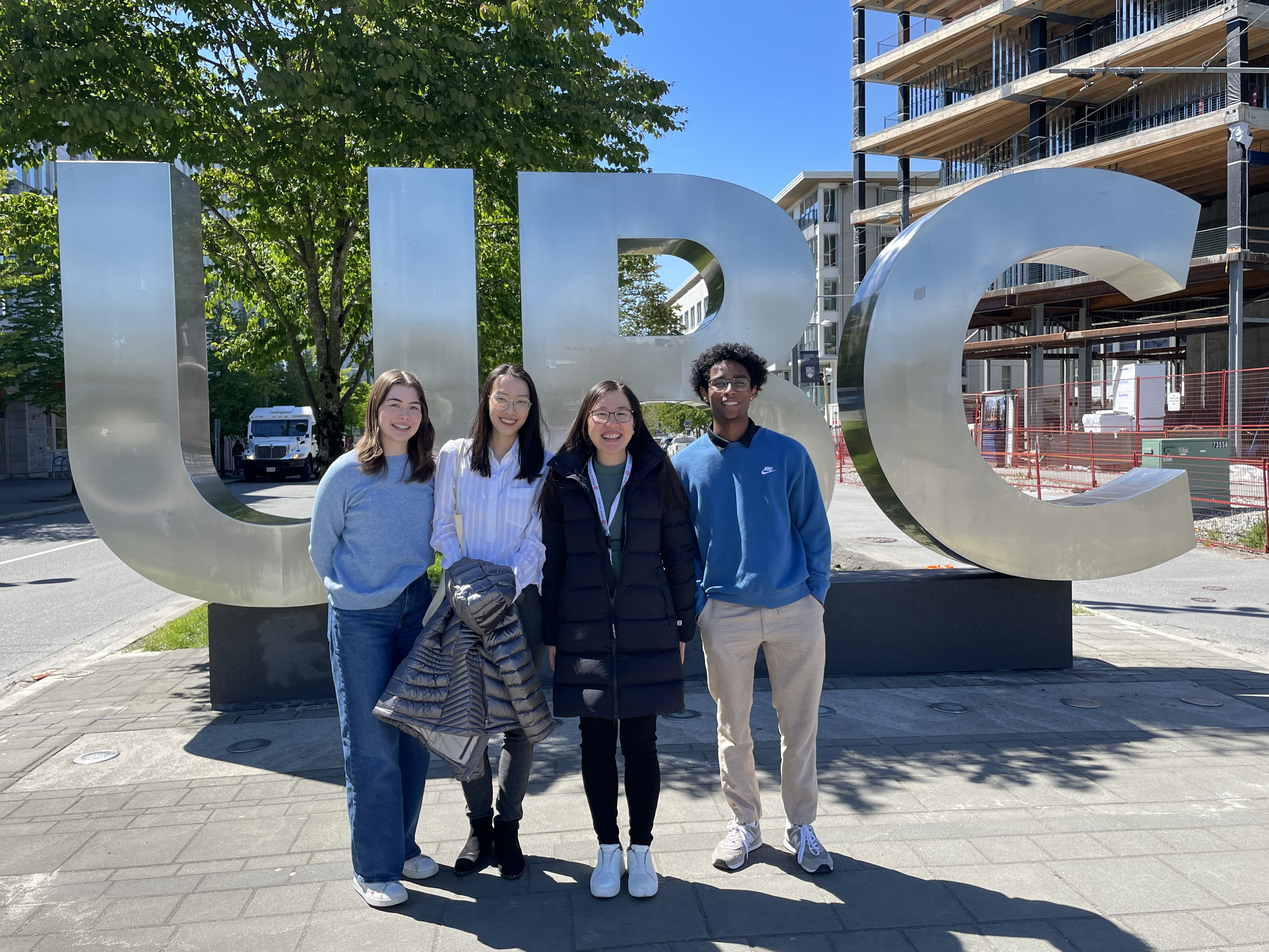
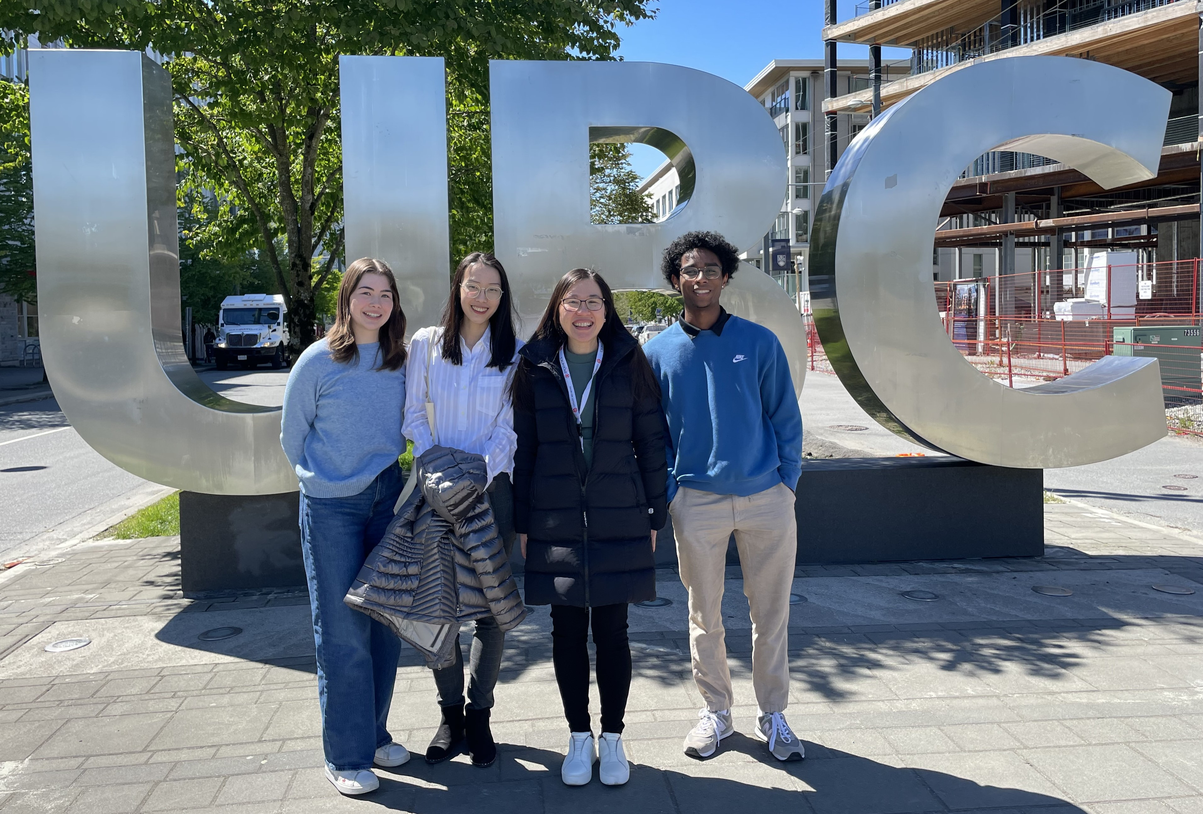
Edit team page

diff --git a/team/index.html b/team/index.html
@@ -15,7 +15,7 @@ categories:
 		<div class="col-lg-4 memberbox">
 			<div class="media">
   				<a class="member_image" href="{{ member.url }}">
-    				<img width=160 class="member_image" src="{{ member.image }}">
+    				<img width=130 height="130" class="member_image" src="{{ member.image }}">
   				</a>
  			 	<div class="media-body">
     				<div class="head mb-1"><a href="{{ member.url }}" class="member_title">{{ member.title }}</a></div>
@@ -36,7 +36,7 @@ categories:
 						font-size: 14px;
 					}
 					.member_image {
-						margin-bottom: 5px;
+						margin-top: -5px;
 					}
 				</style>
 			</div>
@@ -75,11 +75,25 @@ categories:
 <style>
 	.team {
 		column-count: 4;
-		margin-left: 20px;
+		margin-left: 100px;
 	}
 </style>	
 	
 </div>
+
+<div>
+	<img class="team_img" width="500" height="350" src="/images/team/lim-lab-team.jpg">
+</div>
+
+<style>
+.team_img {
+	display: block;
+	margin-left: auto;
+	margin-right: auto;
+	margin-bottom: 5px;
+	margin-top: 2px;
+}
+</style>
 
 <div class="join">
 	<li>	
@@ -93,16 +107,21 @@ categories:
 </div>	
 
 	<style>
-	  .join li {
+	.join li {
 	  list-style-type: none;
 	  margin-top: 15px;
 	  font-size: 20px;
 	}
-	  .join li a {
+	.join li a {
 		text-decoration: none;
 		color: #6699d4;
 	}
 	.join li a:hover {
-	  color:#004492;
+	  	color:#004492;
+	}
+	.join {
+		float: right;
+		margin-top: -57px;
+		margin-right: 50px;
 	}
 	</style>
